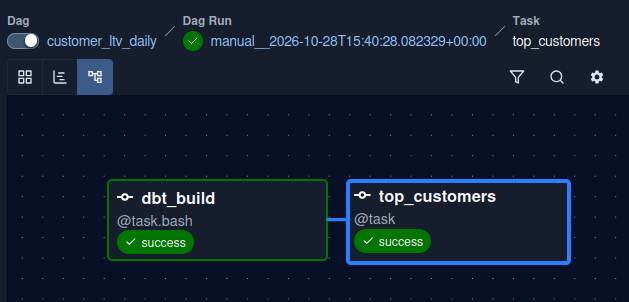
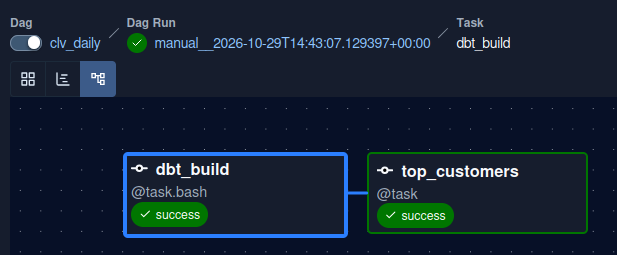
corrected CLV names, clv_project as dbt project and clv_daily as DAG; updated README

diff --git a/01-clv-pipeline/dags/clv_daily.py b/01-clv-pipeline/dags/clv_daily.py
@@ -8,15 +8,15 @@ from airflow.sdk import dag, task
 from airflow.providers.standard.operators.bash import BashOperator
 
 REPO_ROOT = Path(__file__).resolve().parents[1]
-DBT_PROJECT_DIR = REPO_ROOT / "customer_ltv"
-DATA_DIR = Path(os.environ.get("LTV_DATA_DIR", REPO_ROOT / "data"))
+DBT_PROJECT_DIR = REPO_ROOT / "clv_project"
+DATA_DIR = Path(os.environ.get("CLV_DATA_DIR", REPO_ROOT / "data"))
 PROD_DB = DATA_DIR / "prod.duckdb"
 
 DBT_BIN = shutil.which("dbt", path=str(Path(sys.executable).parent)) or "dbt"
 
 DBT_ENV = {
     "DBT_PROFILES_DIR": str(DBT_PROJECT_DIR),
-    "LTV_DATA_DIR": str(DATA_DIR),
+    "CLV_DATA_DIR": str(DATA_DIR),
     # keep Airflow's manifest and run results apart from the ones VS Code writes
     "DBT_TARGET_PATH": "target/airflow",
     # plain text in the task log instead of ANSI colour codes
@@ -24,7 +24,7 @@ DBT_ENV = {
 }
 
 DOC_MD = """
-Builds the `customer_ltv` dbt project against `data/prod.duckdb`, then logs
+Builds the `clv_project` dbt project against `data/prod.duckdb`, then logs
 the top 10 customers by predicted customer lifetime value (CLV).
 
 * `dbt_build` runs `dbt build --target prod`: seeds, models and tests in
@@ -33,7 +33,7 @@ the top 10 customers by predicted customer lifetime value (CLV).
 """
 
 @dag(
-    dag_id = "customer_ltv_daily",
+    dag_id = "clv_daily",
     schedule= "@daily",
     start_date= pendulum.datetime(2026,1,1, tz="UTC"),
     catchup= False,
@@ -45,7 +45,7 @@ the top 10 customers by predicted customer lifetime value (CLV).
     },
     doc_md = DOC_MD
 )
-def customer_ltv_daily():
+def clv_daily():
     # Bash task to build models, seeds, tests in dbt project
     @task.bash(
         cwd= str(DBT_PROJECT_DIR),
@@ -62,9 +62,9 @@ def customer_ltv_daily():
 
         query = """
             select customer_id, first_name, last_name, 
-                   net_orders, net_revenue, predicted_clv
+                   net_orders, net_revenue, predicted_clv_project
             from main.dim_customers
-            order by predicted_clv desc, customer_id
+            order by predicted_clv_project desc, customer_id
             fetch first ? rows only
         """
 
@@ -77,20 +77,20 @@ def customer_ltv_daily():
                 "name": f"{first_name} {last_name}",
                 "net_orders": net_orders,
                 "net_revenue": float(net_revenue),
-                "predicted_clv": float(predicted_clv),
+                "predicted_clv_project": float(predicted_clv_project),
             }
-            for customer_id, first_name, last_name, net_orders, net_revenue, predicted_clv in rows
+            for customer_id, first_name, last_name, net_orders, net_revenue, predicted_clv_project in rows
         ]
         for rank, row in enumerate(result, start=1):
             print(
                 f"{rank:>2}. {row['name']:<20} revenue ${row['net_revenue']:>7.2f}"
-                f"  CLV ${row['predicted_clv']:>8.2f}"
+                f"  CLV ${row['predicted_clv_project']:>8.2f}"
             )
         return result
 
     dbt_build() >> top_customers()
 
-pipeline = customer_ltv_daily()
+pipeline = clv_daily()
 
 if __name__ == "__main__":
     pipeline.test()

diff --git a/01-clv-pipeline/README.md b/01-clv-pipeline/README.md
@@ -1,4 +1,4 @@
-# Customer LTV Pipeline
+# Customer Lifetime Value (CLV) Pipeline
  
 Batch ELT pipeline that turns raw e-commerce exports (customers, orders,
 payments) into a tested customer lifetime value table. dbt models the data in
@@ -53,9 +53,9 @@ Calculations and terms:-
 - **Average order value:** net revenue / net orders.
 - **Orders per month:** net orders / months covered by the data
   (1 Jan to 9 Apr 2018, about 3.25 months).
-- **Lifespan:** 24 months. This is an assumption (dbt var `clv_lifespan_months`).
+- **Lifespan:** 24 months. This is an assumption (dbt var `clv_project_lifespan_months`).
 
-For the average customer (`analyses/clv_summary.sql`): 60 buying customers,
+For the average customer (`analyses/clv_project_summary.sql`): 60 buying customers,
 average order value $17.04, 0.476 orders per month, 24 months, CLV $194.91.
  
 With one shared window, the formula reduces to monthly net revenue × lifespan,
@@ -65,15 +65,18 @@ data size.
 
 ## Data quality
  
-`dbt build` runs 32 nodes: 3 seeds, 6 models and 23 tests.
+`dbt build` runs 34 nodes: 3 seeds, 6 models and 25 tests.
  
 - `unique` and `not_null` on every primary key
 - `relationships`: orders to customers, payments to orders, `fct_orders` to `dim_customers`
 - `accepted_values` on order status and payment method
-- `assert_payments_reconcile` (singular test): the total in `fct_orders` must
-  equal the total in `stg_payments`. It catches a join that fans out or drops rows.
-Airflow runs `dbt build`, so a failed test fails the `dbt_build` task and the
-report task does not run.
+- `assert_order_amount_matches_payments` (singular test): each order's amount must
+  equal the sum of its payments. A failure lists the order ids, and errors that
+  cancel out in a grand total still show up.
+- `assert_consistent_customer_metrics` (singular test): revenue and CLV are never
+  negative, net orders never exceed all orders, CLV is 0 without net orders, and
+  the first order date is not after the last one.
+
 
 ## Result
 Top 10 customers by predicted CLV (24-month lifespan):
@@ -82,22 +85,25 @@ Top 10 customers by predicted CLV (24-month lifespan):
 
 ## Orchestration
  
-DAG `customer_ltv_daily`: schedule `@daily`, `catchup=False`,
+DAG `clv_daily`: schedule `@daily`, `catchup=False`,
 `max_active_runs=1`, 1 retry.
  
-1. `dbt_build`: `BashOperator` running `dbt build --target prod`
+1. `dbt_build`: `@task.bash` running `dbt build --target prod`
 2. `top_customers`: `@task` that reads `dim_customers` from `data/prod.duckdb`
    (read-only), logs the top 10 by predicted CLV and returns them as an XCom
 
 
 ![alt text](docs/images/airflow_graph.png)
-**Figure1:  Airflow DAG graph**
 
-![alt text](docs/images/airflow_task_log.png)
-**Figure2: Top customers task log**
+**Figure1:  Airflow DAG graph**  
+  
+![alt text](docs/images/airflow_task_log.png)  
+
+**Figure2: Top customers task log**  
 
 ![alt text](docs/images/xcoms.png)
-**Figure3: XCOM from top customer query**
+
+  **Figure3: XCOM from top customer query**  
 
 ## Settings in VS Code
  

diff --git a/README.md b/README.md
@@ -7,7 +7,7 @@ Stack across the repo: PySpark, Airflow, dbt, PostgreSQL, Snowflake, Iceberg, De
  
 | # | Project | Project Objective | Stack | Observations |
 |---|---------|--------------------|-------|--------|
-| [01](01-customer-insights-platform) | Customer Insights Platform | Can I run a full daily batch platform end to end, locally? | Airflow, PySpark, dbt, PostgreSQL, Docker | *fill in* |
+| [01](01-clv-pipeline) | Customer Lifetime Value (CLV) Pipeline | build, test and schedule a CLV report pipeline end to end | dbt, DuckDB, Airflow | 34/34 dbt nodes computed; Calculated average predicted CLV $194.92 (24-month lifespan) |
 | [02](02-lakehouse-iceberg-vs-delta) | Iceberg vs Delta Lake | Which table format handles repeated writes and OLAP scans better? | PySpark, Iceberg, Delta Lake, Parquet | *fill in* |
 | [03](03-cdc-incremental-loads) | CDC and incremental loads | Which incremental load pattern costs least on the source? | PySpark, PostgreSQL | *fill in* |
 | [04](04-scd2-dbt-snowflake) | SCD Type 2 | dbt snapshot or hand-written merge? | PySpark, dbt, Snowflake | *fill in* |
